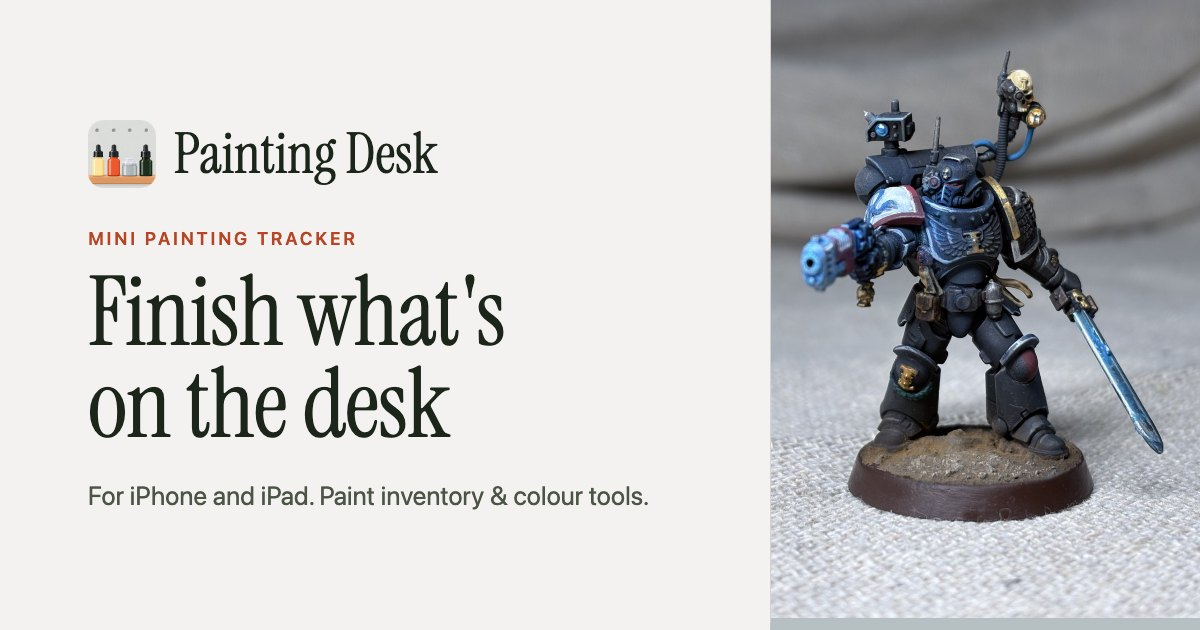
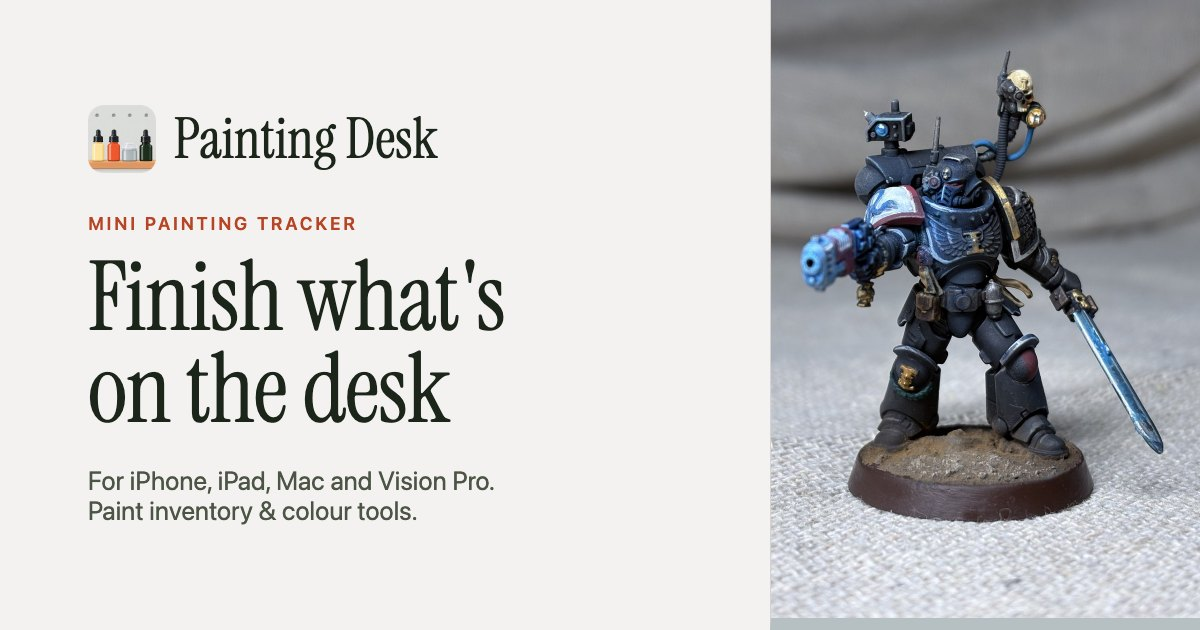
iPhone, iPad, Mac and Vision Pro
The app now builds for the Mac and Apple Vision Pro, so the site says so: the
meta descriptions, the hero, the FAQ (with macOS 27 and visionOS 27), the
privacy policy and the share image. Sync is between "your devices".

Changed region(s): [[0.0617, 0.3317, 0.4317, 0.6937], [0.0617, 0.754, 0.555, 0.8444], [0.0617, 0.1508, 0.37, 0.3016]]

diff --git a/index.html b/index.html
@@ -5,7 +5,7 @@
     <meta charset="UTF-8">
     <meta name="viewport" content="width=device-width, initial-scale=1.0">
     <title>Painting Desk: Mini Tracker</title>
-    <meta name="description" content="Painting Desk is a miniature-painting tracker for iPhone and iPad: the kits on your desk, every pot you own, colour ramps and the recipes that worked.">
+    <meta name="description" content="Painting Desk is a miniature-painting tracker for iPhone, iPad, Mac and Vision Pro: the kits on your desk, every pot you own, colour ramps and the recipes that worked.">
     <meta name="robots" content="index, follow">
     <meta name="theme-color" content="#F3F2F0">
     <link rel="canonical" href="https://paintingdesk.app/">
@@ -22,7 +22,7 @@
     <meta property="og:locale" content="en_GB">
     <meta property="og:url" content="https://paintingdesk.app/">
     <meta property="og:title" content="Painting Desk: Mini Tracker">
-    <meta property="og:description" content="Painting Desk is a miniature-painting tracker for iPhone and iPad: the kits on your desk, every pot you own, colour ramps and the recipes that worked.">
+    <meta property="og:description" content="Painting Desk is a miniature-painting tracker for iPhone, iPad, Mac and Vision Pro: the kits on your desk, every pot you own, colour ramps and the recipes that worked.">
     <meta property="og:image" content="https://paintingdesk.app/images/og-image.jpg">
     <meta property="og:image:width" content="1200">
     <meta property="og:image:height" content="630">
@@ -126,7 +126,7 @@
         <a href="https://apps.apple.com/app/idXXXXXXXXXX" class="btn-primary">Download on the App Store</a>
         <a href="#desk" class="btn-secondary">See what it does</a>
       </div>
-      <p class="meta" data-beta="iPhone and iPad · Public beta on TestFlight">iPhone and iPad · Nothing to sign up for</p>
+      <p class="meta" data-beta="iPhone, iPad, Mac and Vision Pro · Public beta on TestFlight">iPhone, iPad, Mac and Vision Pro · Nothing to sign up for</p>
     </div>
   </section>
 
@@ -483,7 +483,7 @@
     <div>
       <p class="eyebrow mb-4">Private by design</p>
       <h2 class="text-balance font-serif text-5xl md:text-6xl leading-[1] mb-5">No account. No server.</h2>
-      <p class="text-lg text-muted max-w-md mb-6">Your kits, paints, recipes and photos stay on your iPhone and iPad and sync through your own iCloud. There's nothing to sign up for, and nothing we can see.</p>
+      <p class="text-lg text-muted max-w-md mb-6">Your kits, paints, recipes and photos stay on your devices and sync through your own iCloud. There's nothing to sign up for, and nothing we can see.</p>
       <a href="/privacy" class="text-link">Read the privacy policy</a>
     </div>
     <div class="border-t border-ink">

diff --git a/support.html b/support.html
@@ -62,8 +62,8 @@
         <p class="text-muted leading-relaxed pb-6 max-w-2xl">No. There's nothing to sign up for: open Painting Desk and add a kit. Your collection is stored on your device and, if you're signed in to iCloud, in your own private iCloud database.</p>
       </details>
       <details class="border-b border-rule">
-        <summary class="flex items-start justify-between gap-6 py-5 text-lg font-medium">How do I sync between my iPhone and iPad?</summary>
-        <p class="text-muted leading-relaxed pb-6 max-w-2xl">Sign in to the same Apple Account on both and Painting Desk syncs through iCloud by itself. Settings › Your data in the app shows whether everything is up to date. If your iCloud storage is full, each device keeps working and the others catch up once there's room.</p>
+        <summary class="flex items-start justify-between gap-6 py-5 text-lg font-medium">How do I sync between my devices?</summary>
+        <p class="text-muted leading-relaxed pb-6 max-w-2xl">Sign in to the same Apple Account on each and Painting Desk syncs through iCloud by itself. Settings › Your data in the app shows whether everything is up to date. If your iCloud storage is full, each device keeps working and the others catch up once there's room.</p>
       </details>
       <details class="border-b border-rule">
         <summary class="flex items-start justify-between gap-6 py-5 text-lg font-medium">Where are my photos kept?</summary>
@@ -99,7 +99,7 @@
       </details>
       <details class="border-b border-rule">
         <summary class="flex items-start justify-between gap-6 py-5 text-lg font-medium">Which devices does Painting Desk run on?</summary>
-        <p class="text-muted leading-relaxed pb-6 max-w-2xl">iPhone and iPad, on iOS 27 or iPadOS 27 or later. There's no Android version.</p>
+        <p class="text-muted leading-relaxed pb-6 max-w-2xl">iPhone, iPad, Mac and Apple Vision Pro, on iOS 27, iPadOS 27, macOS 27 or visionOS 27 or later. There's no Android version.</p>
       </details>
     </div>
   </section>

diff --git a/privacy.html b/privacy.html
@@ -58,13 +58,13 @@
   <article class="leading-relaxed">
     <section id="about" class="scroll-mt-24 pb-10">
       <h2 class="font-serif text-3xl md:text-4xl leading-none mb-4">About this policy</h2>
-      <p class="text-muted">This policy covers the Painting Desk app for iPhone and iPad and this website. "We" and "us" mean the developer of Painting Desk. If anything here is unclear, email <a href="mailto:support@paintingdesk.app" class="text-link">support@paintingdesk.app</a>.</p>
+      <p class="text-muted">This policy covers the Painting Desk app for iPhone, iPad, Mac and Apple Vision Pro, and this website. "We" and "us" mean the developer of Painting Desk. If anything here is unclear, email <a href="mailto:support@paintingdesk.app" class="text-link">support@paintingdesk.app</a>.</p>
     </section>
 
     <section id="stored" class="scroll-mt-24 border-t border-rule pt-8 pb-10">
       <h2 class="font-serif text-3xl md:text-4xl leading-none mb-4">What Painting Desk stores</h2>
       <p class="text-muted mb-4">Only what you put into it: your kits with their stages, dates and notes; your paints and how much is left in each pot; your recipes; your shopping list; your painting sessions; your settings; and a thumbnail of each photo.</p>
-      <p class="text-muted">It is kept on your device. If you're signed in to iCloud, it is also kept in your private iCloud database, so your iPhone and iPad stay in step. That database belongs to your Apple Account: Apple stores it, and we cannot read it.</p>
+      <p class="text-muted">It is kept on your device. If you're signed in to iCloud, it is also kept in your private iCloud database, so your devices stay in step. That database belongs to your Apple Account: Apple stores it, and we cannot read it.</p>
     </section>
 
     <section id="photos" class="scroll-mt-24 border-t border-rule pt-8 pb-10">

diff --git a/SPEC.md b/SPEC.md
@@ -1,7 +1,7 @@
 # Painting Desk Website — Spec
 
-The marketing and support site for **Painting Desk**, the miniature-painting tracker for iPhone and
-iPad, at **paintingdesk.app** (app repo: `../Plinth`). The app was called Plinth until 2026-10-02
+The marketing and support site for **Painting Desk**, the miniature-painting tracker for iPhone, iPad,
+Mac and Apple Vision Pro, at **paintingdesk.app** (app repo: `../Plinth`). The app was called Plinth until 2026-10-02
 (§11.1); the code, the bundle ID and the repo folders keep that name, and nothing a visitor sees does.
 Built on the same stack as `../Magic-Sudoku-Website`, so anything learned there applies here.
 
